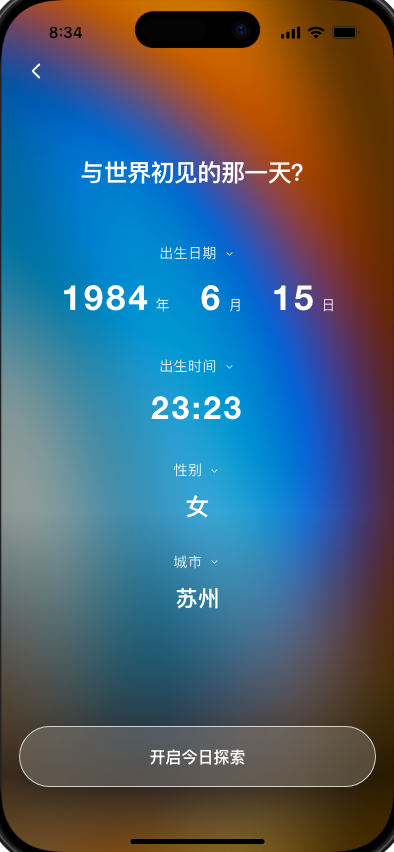
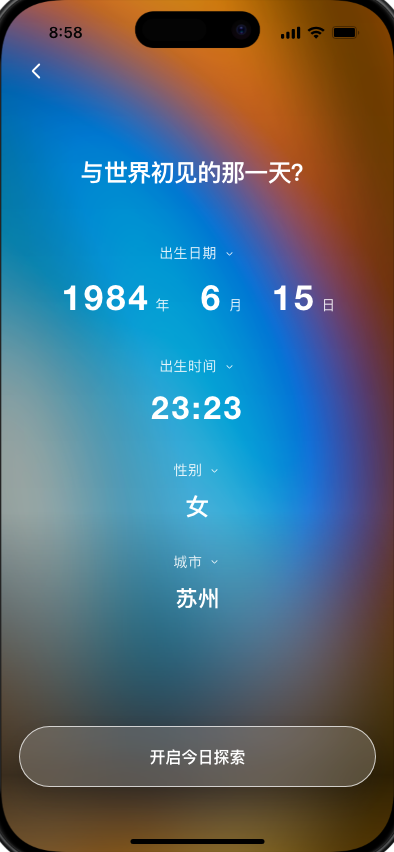
Unify animated journey atmosphere and refine result actions

Changed region(s): [[0.0609, 0.0, 0.8223, 0.2746]]

diff --git a/haf-energy-journey-h5/src/prototype.css b/haf-energy-journey-h5/src/prototype.css
@@ -32,7 +32,7 @@ button { font: inherit; -webkit-tap-highlight-color: transparent; }
   min-height: 100%;
   overflow: hidden;
   color: white;
-  background: #3d9ed9 url("/assets/haf/atmosphere.png") center / cover no-repeat;
+  background: #075d8e;
   box-shadow: inset 0 0 40px rgba(255,255,255,.08);
 }
 
@@ -46,10 +46,27 @@ button { font: inherit; -webkit-tap-highlight-color: transparent; }
 }
 
 .journey-module > :not(.energy-atmosphere) { position: relative; z-index: 3; }
-.energy-atmosphere { position: absolute; z-index: 0; inset: -5%; overflow: hidden; pointer-events: none; }
-.ambient-flow { position: absolute; inset: -3%; width: 106%; height: 106%; object-fit: cover; object-position: 55% 48%; }
-.ambient-flow-primary { opacity: .48; filter: saturate(1.08) brightness(1.06); }
-.ambient-flow-soft { opacity: .16; filter: blur(8px) saturate(1.22) brightness(1.32); mix-blend-mode: screen; }
+.energy-atmosphere { position: absolute; z-index: 0; inset: 0; overflow: hidden; pointer-events: none; }
+.ambient-flow { position: absolute; object-fit: fill; transform-origin: center; will-change: transform, opacity; }
+.ambient-flow-primary { top: -27%; left: -205%; width: 507%; height: 175%; opacity: 1; filter: blur(50px) saturate(1.48) brightness(.9); animation: ambient-primary-drift 25s ease-in-out infinite; }
+.ambient-flow-soft { top: -42%; left: -164%; width: 438%; height: 194%; opacity: .18; filter: blur(72px) saturate(1.62) brightness(1.14); mix-blend-mode: screen; animation: ambient-soft-drift 31s ease-in-out infinite; }
+
+@keyframes ambient-primary-drift {
+  0%, 100% { transform: translate3d(0, 0, 0) scale(1) rotate(0deg); }
+  38% { transform: translate3d(-18px, 14px, 0) scale(1.065) rotate(1.8deg); }
+  72% { transform: translate3d(12px, -9px, 0) scale(1.025) rotate(-1.2deg); }
+}
+
+@keyframes ambient-soft-drift {
+  0%, 100% { transform: translate3d(8px, 10px, 0) scale(1.08) rotate(-3deg); opacity: .18; }
+  42% { transform: translate3d(24px, -18px, 0) scale(1.17) rotate(2.5deg); opacity: .34; }
+  76% { transform: translate3d(-14px, 12px, 0) scale(1.11) rotate(-1deg); opacity: .22; }
+}
+
+@media (prefers-reduced-motion: reduce) {
+  .ambient-flow-primary,
+  .ambient-flow-soft { animation: none; }
+}
 
 .energy-orb { position: relative; display: block; isolation: isolate; }
 .orb-layer { position: absolute; inset: 0; width: 100%; height: 100%; object-fit: contain; pointer-events: none; }
@@ -92,24 +109,8 @@ button { font: inherit; -webkit-tap-highlight-color: transparent; }
 .privacy-note { margin-top: auto; margin-bottom: 15px; padding: 10px 13px; border: 1px solid rgba(255,255,255,.24); border-radius: 15px; background: rgba(13,73,117,.18); display: flex; align-items: flex-start; gap: 8px; color: rgba(255,255,255,.72); font-size: 12px; line-height: 1.5; backdrop-filter: blur(10px); }
 .privacy-note svg { width: 14px; height: 14px; flex: 0 0 auto; margin-top: 1px; }
 
-.profile-host .journey-module,
-.result-host .journey-module { background: #075d8e; }
-.profile-host .journey-module::before,
-.result-host .journey-module::before {
-  content: "";
-  position: absolute;
-  z-index: 0;
-  top: -27%;
-  left: -205%;
-  width: 507%;
-  height: 175%;
-  background: url("/assets/haf/visual-refresh/energy-gradient.jpeg") center / 100% 100% no-repeat;
-  filter: blur(50px) saturate(1.48) brightness(.9);
-}
 .profile-host .journey-module::after { background: linear-gradient(to bottom, rgba(0,0,0,.12) 0%, rgba(0,0,0,.08) 60%, rgba(0,0,0,.7) 91%, rgba(0,0,0,.44) 100%); }
 .result-host .journey-module::after { background: rgba(0, 0, 0, .16); }
-.profile-host .energy-atmosphere,
-.result-host .energy-atmosphere { display: none; }
 
 .visual-back { position: absolute; z-index: 8; top: var(--haf-safe-top); left: 18px; width: 34px; height: 34px; padding: 8px 10px; border: 0; background: transparent; display: grid; place-items: center; }
 .visual-back img { width: 14px; height: 18px; }
@@ -183,14 +184,13 @@ button { font: inherit; -webkit-tap-highlight-color: transparent; }
 .result-copy h1 { margin: 7px 0 17px; font-size: 28px; line-height: 1.08; font-weight: 620; letter-spacing: .12em; white-space: nowrap; }
 .result-copy p { width: 100%; max-width: 350px; margin: 0; color: rgba(255,255,255,.94); font-size: 14px; line-height: 1.55; text-wrap: pretty; }
 .energy-facets { position: absolute; z-index: 3; top: 239px; right: 18px; left: 18px; display: grid; grid-template-columns: 103px 1fr 1fr; gap: 8px; }
-.energy-facets > span { min-width: 0; height: 108px; padding: 10px 9px; box-sizing: border-box; border: 1px solid rgba(255,255,255,.62); border-radius: 20px; background: rgba(255,255,255,.1); backdrop-filter: blur(10px); }
+.energy-facets > span { min-width: 0; height: 108px; padding: 10px 9px; box-sizing: border-box; border: 1px solid rgba(255,255,255,.62); border-radius: 20px; background: rgba(255,255,255,.1); display: grid; grid-template-rows: 16px 45px 18px; backdrop-filter: blur(10px); }
 .energy-facets small, .energy-facets strong, .energy-facets em { display: block; overflow: hidden; text-overflow: ellipsis; white-space: nowrap; font-style: normal; }
 .energy-facets small { color: rgba(255,255,255,.82); font-size: 12px; font-weight: 350; }
-.energy-facets strong { margin-top: 14px; color: white; font-size: 18px; line-height: 1.05; font-weight: 620; }
+.energy-facets strong { margin: 0; align-self: center; color: white; font-size: 18px; line-height: 1.05; font-weight: 620; }
 .energy-facets > span:first-child strong { font-family: "Graphik", "Helvetica Neue", Arial, sans-serif; font-size: 27px; }
-.energy-facets em { margin-top: 9px; color: rgba(255,255,255,.78); font-size: 12px; }
+.energy-facets em { margin: 0; align-self: start; color: rgba(255,255,255,.78); font-size: 12px; line-height: 18px; }
 .recommendations { position: relative; z-index: 4; height: 285px; flex: 0 0 285px; margin-top: 13px; }
-.recommendation-saved { position: absolute; z-index: 8; top: -23px; right: 18px; padding: 0; border: 0; background: transparent; color: rgba(255,255,255,.9); font-size: 12px; line-height: 14px; font-weight: 420; text-decoration: underline; text-underline-offset: 3px; }
 .course-rail { width: 100%; }
 .course-track { display: flex; gap: 12px; padding: 0 16px 6px; }
 .course-card { position: relative; isolation: isolate; flex: 0 0 325px; height: 285px; padding: 0; box-sizing: border-box; overflow: hidden; border: 0; border-radius: 22px; background: rgba(23,29,35,.52); box-shadow: 0 16px 34px rgba(0,0,0,.2); clip-path: inset(0 round 22px); transform: translateZ(0); }
@@ -205,8 +205,12 @@ button { font: inherit; -webkit-tap-highlight-color: transparent; }
 .course-copy span { display: block; margin: 0; color: rgba(255,255,255,.86); font-size: 12px; }
 .course-copy h3 { margin: 6px 0 8px; font-size: 18px; line-height: 1.25; font-weight: 620; }
 .course-copy p { display: -webkit-box; margin: 0; overflow: hidden; color: rgba(255,255,255,.88); font-size: 12px; line-height: 1.5; -webkit-line-clamp: 3; -webkit-box-orient: vertical; }
-.result-actions { min-height: 132px; margin-top: 0; padding: 18px 18px calc(var(--mobile-safe-area-height) + 8px); box-sizing: border-box; display: flex; flex-direction: column; align-items: center; gap: 12px; }
-.result-refresh { width: 100%; min-height: 55px; border: 1px solid rgba(255,255,255,.72); border-radius: 999px; background: rgba(255,255,255,.18); color: white; font-size: 16px; font-weight: 600; backdrop-filter: blur(16px); }
+.result-actions { min-height: 132px; margin-top: 0; padding: 14px 18px calc(var(--mobile-safe-area-height) + 5px); box-sizing: border-box; display: flex; flex-direction: column; align-items: center; gap: 10px; }
+.result-primary-actions { width: 100%; display: grid; grid-template-columns: 52px minmax(0, 278px); justify-content: center; gap: 10px; }
+.result-saved-action { position: relative; width: 52px; height: 52px; padding: 0; border: 1px solid rgba(255,255,255,.72); border-radius: 50%; background: rgba(255,255,255,.18); color: white; display: grid; place-items: center; backdrop-filter: blur(16px); }
+.result-saved-action svg { width: 19px; height: 19px; }
+.result-saved-action span { position: absolute; top: -3px; right: -3px; min-width: 17px; height: 17px; padding: 0 4px; box-sizing: border-box; border: 1px solid rgba(255,255,255,.82); border-radius: 999px; background: rgba(91,75,102,.88); color: white; font-size: 10px; line-height: 15px; text-align: center; }
+.result-refresh { width: 100%; min-height: 52px; border: 1px solid rgba(255,255,255,.72); border-radius: 999px; background: rgba(255,255,255,.18); color: white; font-size: 16px; font-weight: 600; backdrop-filter: blur(16px); }
 .result-resense { padding: 0; border: 0; background: transparent; color: white; font-size: 14px; font-weight: 520; text-decoration: underline; text-underline-offset: 4px; }
 
 .favorites-screen { height: 100%; box-sizing: border-box; padding: calc(var(--haf-safe-top) + 14px) 25px calc(var(--mobile-safe-area-height) + 24px); overflow-y: auto; scrollbar-width: none; }

diff --git a/haf-energy-journey-h5/src/Prototype.tsx b/haf-energy-journey-h5/src/Prototype.tsx
@@ -830,19 +830,15 @@ function useJourney() {
 function AmbientEnergy() {
   return (
     <div className="energy-atmosphere" aria-hidden="true">
-      <motion.img
+      <img
         className="ambient-flow ambient-flow-primary"
-        src="/assets/haf/energy-flow-v3.png"
+        src="/assets/haf/visual-refresh/energy-gradient.jpeg"
         alt=""
-        animate={{ x: [0, 9, -5, 0], y: [-8, 8, -4, -8], scale: [1.03, 1.085, 1.04, 1.03] }}
-        transition={{ duration: 16, repeat: Infinity, ease: "easeInOut" }}
       />
-      <motion.img
+      <img
         className="ambient-flow ambient-flow-soft"
-        src="/assets/haf/energy-flow-v3.png"
+        src="/assets/haf/visual-refresh/energy-gradient.jpeg"
         alt=""
-        animate={{ x: [7, -8, 4, 7], y: [11, -7, 5, 11], scale: [1.12, 1.04, 1.09, 1.12], opacity: [0.11, 0.24, 0.15, 0.11] }}
-        transition={{ duration: 22, repeat: Infinity, ease: "easeInOut" }}
       />
     </div>
   );
@@ -1193,9 +1189,6 @@ function ResultScreen() {
         </section>
         <section className="recommendations">
           <h2 className="visually-hidden">此刻与你契合的体验</h2>
-          <button className="recommendation-saved" onClick={() => flow.push(makeScreen("favorites"))}>
-            已收藏{favorites.length > 0 ? ` ${favorites.length}` : ""}
-          </button>
           <Carousel className="course-rail" contentClassName="course-track" ariaLabel="此刻与你契合的体验">
             {orderedCourses.map((course) => {
               const saved = favorites.includes(course.id);
@@ -1215,7 +1208,13 @@ function ResultScreen() {
           </Carousel>
         </section>
         <footer className="result-actions">
-          <button className="result-refresh" onClick={refreshCourses}>换一批</button>
+          <div className="result-primary-actions">
+            <button className="result-saved-action" onClick={() => flow.push(makeScreen("favorites"))} aria-label={`查看已收藏${favorites.length ? ` ${favorites.length}` : ""}`}>
+              <BookmarkIcon />
+              {favorites.length > 0 && <span>{favorites.length}</span>}
+            </button>
+            <button className="result-refresh" onClick={refreshCourses}>换一批</button>
+          </div>
           <button className="result-resense" onClick={() => flow.pop()}>重新感应</button>
         </footer>
       </div>

diff --git a/haf-energy-journey-h5/design-qa.md b/haf-energy-journey-h5/design-qa.md
@@ -4,8 +4,8 @@
 - Implementation: local HAF mobile prototype at `http://127.0.0.1:4173/`.
 - Intended viewport: full-screen app-owned 393 × 852 mobile view inside the protected iPhone runtime. Backgrounds paint behind the status bar and home indicator; readable controls keep safe-area clearance.
 - Source pixels: primary screen references 786 × 1704; focused result references 718 × 536 and 760 × 690; Figma export 786 × 1704.
-- Implementation screenshots: `qa/visual-refresh-2026-08-26/profile-implementation.png` and `qa/visual-refresh-2026-08-26/result-implementation.png`, each 393 × 852 CSS pixels at device scale factor 1.
-- State: profile and result screens captured after the full-screen and compact-card revisions.
+- Implementation screenshots: `qa/visual-refresh-2026-08-26/loading-implementation.png`, `welcome-implementation.png`, `profile-implementation.png`, `return-implementation.png`, `compass-implementation.png`, `synthesis-implementation.png`, `result-implementation.png`, and `favorites-implementation.png`, each 393 × 852 CSS pixels at device scale factor 1.
+- State: the complete first-time journey, returning-user greeting, result actions, and saved-experiences route captured after the full-screen, compact-card, and shared-atmosphere revisions.
 
 ## Comparison passes
 
@@ -14,12 +14,15 @@
 - Pass 3: compared both supplied references, both implementation captures, and the compact-card screenshot together. Reduced recommendation cards from 330px to 285px and moved both result actions upward, leaving more than 70px below `重新感应` for iOS system actions.
 - Pass 4: compared the focused compact-card reference with the revised 393 × 852 result capture. Added a softened, blurred image haze below the card copy, moved `已收藏` to the recommendation region's upper-right edge, renamed the profile action to `修改档案`, and verified five consecutive recommendation batches without a repeated course.
 - Pass 5: compared the supplied saved-entry/card crop with the latest full result capture. Added balanced breathing room around `已收藏`, shifted the card and bottom actions down by 5px, and forced a 22px GPU-safe clip so both lower corners remain visibly rounded beneath the blur layer.
+- Pass 6: compared the same result crop and latest result capture together. Replaced the separate saved text link with a 52px circular bookmark immediately left of a 278 × 52 `换一批` button, then aligned the three facet footers to an identical vertical position.
+- Pass 7: compared both supplied full-screen references with all eight route captures together. Reused the same real red-blue-orange raster as two full-screen atmospheric layers on every route, added low-amplitude 25s/31s breathing motion, and retained contrast overlays where content density requires them. The motion is disabled by `prefers-reduced-motion`.
 
 ## Final findings
 
 - No open P0, P1, or P2 visual findings.
 - Profile: title, date/time/gender/city groups, back affordance, and primary CTA align to the supplied vertical rhythm. The full-bleed raster continues beneath the protected status and home-indicator chrome.
 - Result: energy hierarchy, three glass facets, horizontal three-card rail, actions, and bottom safety buffer are complete. The card image uses the real selected course catalog cover rather than the static Figma demonstration photo; this is an intentional product-data constraint.
+- Journey atmosphere: loading, welcome, profile, returning greeting, compass, synthesis, result, and favorites all render the same raster source without a hard rectangular boundary. The light field drifts and scales subtly rather than behaving like a looping decorative effect.
 - Focused card region: metadata, title, and fit reason remain readable over the new soft-focus lower-image treatment; the haze has no hard asset boundary and stays clipped by the real card image.
 - The protected runtime overlays live iOS status chrome and the home indicator, while the source PNGs omit those system elements. This is an intentional runtime difference, not an app-owned blank band.
 - Three `ERR_CONNECTION_REFUSED` messages remain in the isolated visual capture because the optional local analytics/AI service on port 4174 was not running. Deterministic fallbacks completed the journey and all visible interactions; the errors do not affect layout or behavior.
@@ -30,12 +33,15 @@
 - Profile controls and primary CTA — passed.
 - Exactly three catalog-backed course cards — passed.
 - Horizontal carousel drag and favorite state — passed.
-- `修改档案`, relocated `已收藏`, `换一批`, and `重新感应` — passed.
+- `修改档案`, circular saved-experiences action, narrower `换一批`, and `重新感应` — passed.
 - Recommendation novelty: 15 unique courses across five consecutive batches — passed.
 - Compact card height: 285px — passed.
-- Saved-entry top and bottom spacing: at least 6px — passed.
+- Circular saved action: 52 × 52; refresh action: 278 × 52 — passed.
+- Three facet footer tops: 485px / 485px / 485px — passed.
 - Card top and bottom rounding: 22px clip — passed.
 - Bottom action buffer: at least 70px — passed.
+- Shared raster background: two instances of `energy-gradient.jpeg` on all eight route states — passed.
+- Background motion transform changes during capture; reduced-motion override present — passed.
 - Keyboard-aware city input and semantic button labels remain present.
 
 final result: passed

diff --git a/haf-energy-journey-h5/AGENTS.md b/haf-energy-journey-h5/AGENTS.md
@@ -24,6 +24,7 @@
 - Never place a separately cropped opaque light-flow image behind the result orb; it creates a visible rectangular color mask. Result-page light must come from the full-module atmospheric layers, with no hard image boundary.
 - The synthesis/loading transition must also avoid cropped light-flow images or any visible rectangular mask. Use the full-module atmosphere plus transparent orb/radial-light layers only.
 - The H5 module spans the full phone viewport with square app-owned edges and no top or bottom blank bands. Do not add a floating rounded outer frame or gutters around the whole module; rounded corners remain appropriate for internal cards and controls.
+- Every journey route uses the same full-screen red-blue-orange raster atmosphere. Animate only the real raster layers with slow, low-amplitude scale, translation, rotation, and opacity changes so the color fields feel like breathing energy; honor the user's reduced-motion preference and do not replace the asset with CSS-drawn color blobs.
 - Result-page readability takes priority over extra negative space: `灵数 · 脉轮 · 方向`, course fit copy, duration/type, and bookmark labels must remain comfortably readable at the 365px embedded H5 width. Include a concise interpretation below the three source facets.
 - On the approved result layout, the orb occupies only the title corner. The leading guidance sentence has the full content width and uses balanced wrapping so a single Chinese character is not orphaned on a new line.
 - Match the host mini-program’s compact PingFang-style hierarchy. In the full-screen visual refresh, primary result headings may reach 28px, section/course titles are approximately 17-18px, normal body copy is 14px, and non-course-card captions are no smaller than 12px. Prefer regular-to-semibold weights (400-650); avoid oversized heavy display type that makes the H5 feel like a separate product.
@@ -33,8 +34,8 @@
 - Keep the three result facets semantically independent: numerology is the daily theme, the compass is the current inward/outward and calm/active position, and the chakra card is the projected energy landing. Do not repeat a synthesized keyword across these source cards.
 - The recommender still returns exactly three catalog records in a horizontal carousel, but the visible narrative introduces them as `此刻与你契合的体验`, not `3 节课`. Every card includes a small real image, course name, current-energy fit reason, duration/format, and a bookmark action. Use natural modality phrases such as `这段冥想练习` or `这场声音体验` in reasons; do not show price or purchase pressure.
 - In the full-screen iOS result layout, keep recommendation cards compact enough that `换一批` and `重新感应` sit above the bottom system-action region; the full-bleed background may continue behind the reserved buffer.
-- The result action is labeled `修改档案`; the `已收藏` entry belongs at the upper-right edge of the recommendation area rather than beside the energy heading. Course-card copy sits over a soft blurred image haze, and `换一批` must exhaust unseen catalog courses before recycling older results.
-- Keep visible breathing room above and below the recommendation-level `已收藏` entry. Recommendation cards must retain rounded top and bottom corners even when blurred copy layers use GPU compositing; bottom actions may shift slightly lower to protect this spacing.
+- The result action is labeled `修改档案`. The saved-experiences entry is a small circular bookmark button immediately left of the narrower `换一批` action; do not place a separate `已收藏` text link above the recommendation rail. Course-card copy sits over a soft blurred image haze, and `换一批` must exhaust unseen catalog courses before recycling older results.
+- Recommendation cards must retain rounded top and bottom corners even when blurred copy layers use GPU compositing. The three energy-facet footer values (`力量`, direction detail, and chakra themes) share one aligned baseline regardless of the different main-value sizes.
 - On real-course cards, the small eyebrow displays the course date and the metadata line displays the session start-end time plus format; do not label the card body `今日契合点` or substitute duration for the real schedule. The three fit reasons should deliberately use different grounded lenses—daily numerology, chakra evidence, and compass direction—so the cards do not repeat one template.
 - Keep the timing semantics distinct: numerology and the upper result are the user's `今日能量`, while course reasons express `此刻契合`. Never imply that a recommended course must be taken today or will stop fitting tomorrow; the user may save or purchase it now and enter the experience later.
 - The active working H5 currently uses the normalized HAF 2025 API catalog as a clearly labeled historical recall test; the frozen V3 snapshot remains untouched. In this test, user numerology still uses the current natural date, while course availability is evaluated at the 2025 event-opening checkpoint so the historical catalog remains playable. Current MVP availability requires only presence in the latest successful complete list and at least one session whose end time has not passed; inventory, goods ID, and purchase link are observed but do not filter recommendations yet.
